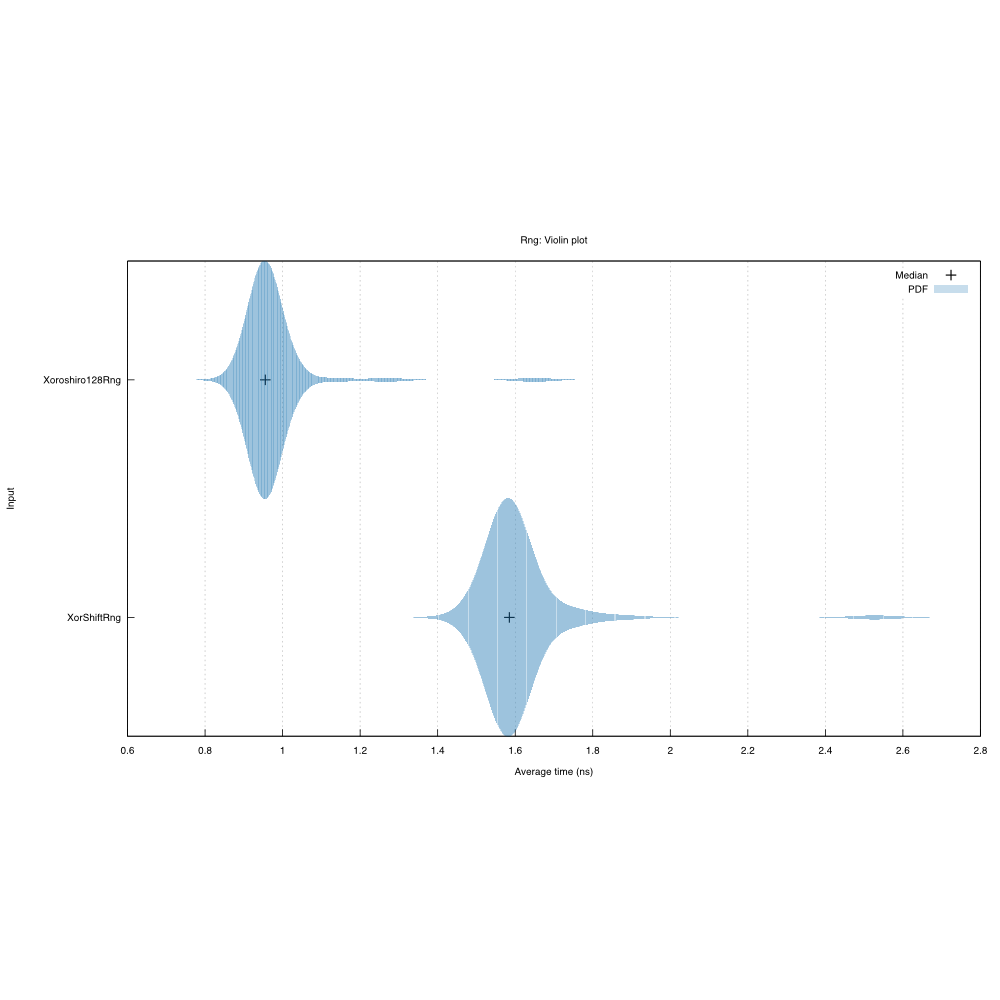
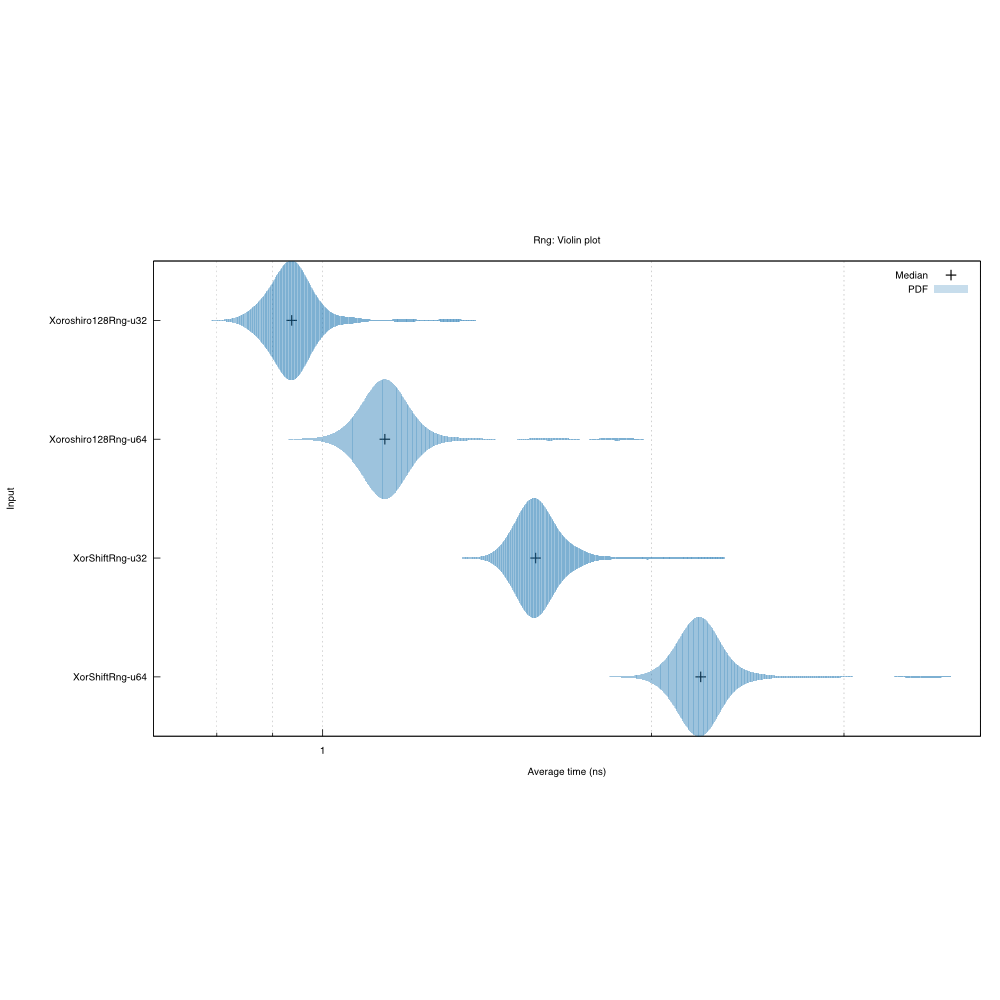
Add u32/u64 bake-off.

diff --git a/benches/benches.rs b/benches/benches.rs
@@ -6,21 +6,33 @@ use criterion::{Bencher, Fun, Criterion};
 use rand::{Rng, SeedableRng, XorShiftRng};
 use xoroshiro::Xoroshiro128Rng;
 
-fn bench_xorshift(b: &mut Bencher, _: &u32) {
+fn bench_xorshift_u32(b: &mut Bencher, _: &u32) {
     let mut rng = XorShiftRng::from_seed([100, 200, 300, 400]);
     b.iter(|| rng.next_u32());
 }
 
-fn bench_xoroshiro(b: &mut Bencher, _: &u32) {
+fn bench_xoroshiro_u32(b: &mut Bencher, _: &u32) {
     let mut rng = Xoroshiro128Rng::from_seed([100, 200]);
     b.iter(|| rng.next_u32());
 }
 
+fn bench_xorshift_u64(b: &mut Bencher, _: &u32) {
+    let mut rng = XorShiftRng::from_seed([100, 200, 300, 400]);
+    b.iter(|| rng.next_u64());
+}
+
+fn bench_xoroshiro_u64(b: &mut Bencher, _: &u32) {
+    let mut rng = Xoroshiro128Rng::from_seed([100, 200]);
+    b.iter(|| rng.next_u64());
+}
+
 #[test]
 fn comparison() {
-    let xorshift = Fun::new("XorShiftRng", bench_xorshift);
-    let xoroshiro = Fun::new("Xoroshiro128Rng", bench_xoroshiro);
-    let rngs = vec![xorshift, xoroshiro];
+    let xorshift_u32 = Fun::new("XorShiftRng-u32", bench_xorshift_u32);
+    let xoroshiro_u32 = Fun::new("Xoroshiro128Rng-u32", bench_xoroshiro_u32);
+    let xorshift_u64 = Fun::new("XorShiftRng-u64", bench_xorshift_u64);
+    let xoroshiro_u64 = Fun::new("Xoroshiro128Rng-u64", bench_xoroshiro_u64);
+    let rngs = vec![xorshift_u32, xorshift_u64, xoroshiro_u32, xoroshiro_u64];
 
     Criterion::default().bench_functions("Rng", rngs, &1);
 }
